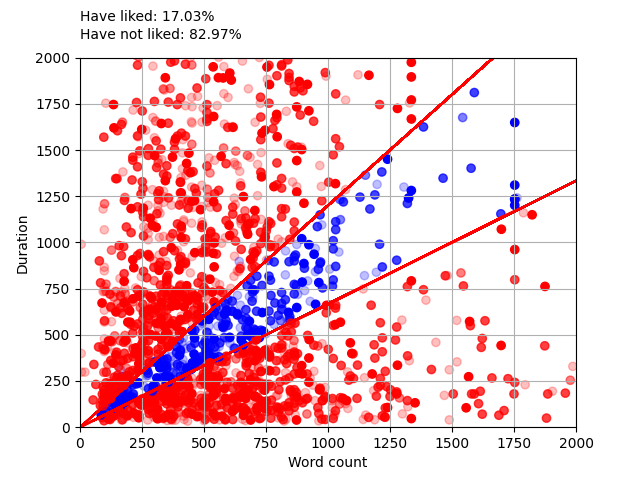
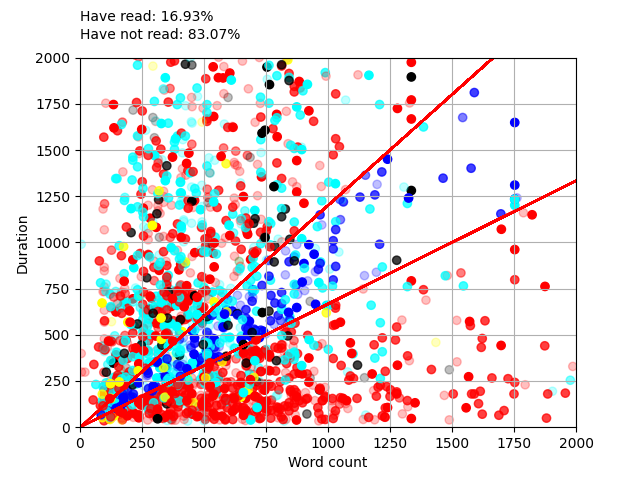
Add different colors for like and difficulty feedback

diff --git a/zeeguu/recommender/feedback_matrix.py b/zeeguu/recommender/feedback_matrix.py
@@ -1,4 +1,5 @@
 from zeeguu.core.model.article import Article
+from zeeguu.core.model.article_difficulty_feedback import ArticleDifficultyFeedback
 from zeeguu.core.model.user import User
 from zeeguu.core.model.user_activitiy_data import UserActivityData
 from zeeguu.core.model.user_article import UserArticle
@@ -50,6 +51,8 @@ class FeedbackMatrix:
             session_duration = int(session.duration) / 1000 # in seconds
             liked = UserArticle.query.filter_by(user_id=user_id, article_id=article_id).with_entities(UserArticle.liked).first()
             liked_value = 0 if liked == (False,) or liked is None else 1 # should check out
+            difficulty_feedback = ArticleDifficultyFeedback.query.filter_by(user_id=user_id, article_id=article_id).with_entities(ArticleDifficultyFeedback.difficulty_feedback).first()
+            difficulty_feedback_value = 0 if difficulty_feedback is None else int(difficulty_feedback[0])
             
             if (user_id, article_id) not in sessions:
                 sessions[(user_id, article_id)] = {
@@ -61,12 +64,12 @@ class FeedbackMatrix:
                     'word_count': article.word_count,
                     'expected_read': 0,
                     'liked': liked_value,
-                    'df_feedback': 0,
+                    'df_feedback': difficulty_feedback_value,
                     'days_since': (datetime.now() - session.start_time).days,
                 }
             else:
                 sessions[(user_id, article_id)]['user_duration'] += session_duration
-        
+
         for session in sessions.keys():
             user_id = session[0]
             article_id = session[1]
@@ -88,12 +91,9 @@ class FeedbackMatrix:
             userDurationWithTranslated = (sessions[session]['user_duration'] - (timesTranslated * 3)) * diff
             sessions[session]['user_duration'] = userDurationWithTranslated 
             
-            if userDurationWithTranslated <= should_spend_reading_upper_bound and userDurationWithTranslated >= should_spend_reading_lower_bound and sessions[session]['liked'] == 0:
+            if userDurationWithTranslated <= should_spend_reading_upper_bound and userDurationWithTranslated >= should_spend_reading_lower_bound:
                 have_read_sessions += 1
                 sessions[session]['expected_read'] = 1
-            elif sessions[session]['expected_read'] == 1:
-                have_read_sessions += 1
-                liked_sessions.append(sessions[session])
             else:
                 continue
 
@@ -107,8 +107,10 @@ class FeedbackMatrix:
         plt.xlabel('Word count')
         plt.ylabel('Duration')
 
-        dot_color = np.where(df['expected_read'] == 1, 'blue', 'red')
-        plt.scatter(df['word_count'], df['user_duration'], alpha=[self.__days_since_to_multiplier(d) for d in df['days_since']], color=dot_color)
+        expected_read_color = np.where(df['liked'] == 1, 'green', 
+                                    np.where(df['df_feedback'] != 0, np.where(df['df_feedback'] == 1, 'yellow', np.where(df['df_feedback'] == 3, 'cyan', 'black')),
+                                        np.where(df['expected_read'] == 1, 'blue', 'red')))
+        plt.scatter(df['word_count'], df['user_duration'], alpha=[self.__days_since_to_multiplier(d) for d in df['days_since']], color=expected_read_color)
 
         x_values = df['word_count']
         y_values_line = [get_expected_reading_time(x, -20) for x in x_values]
